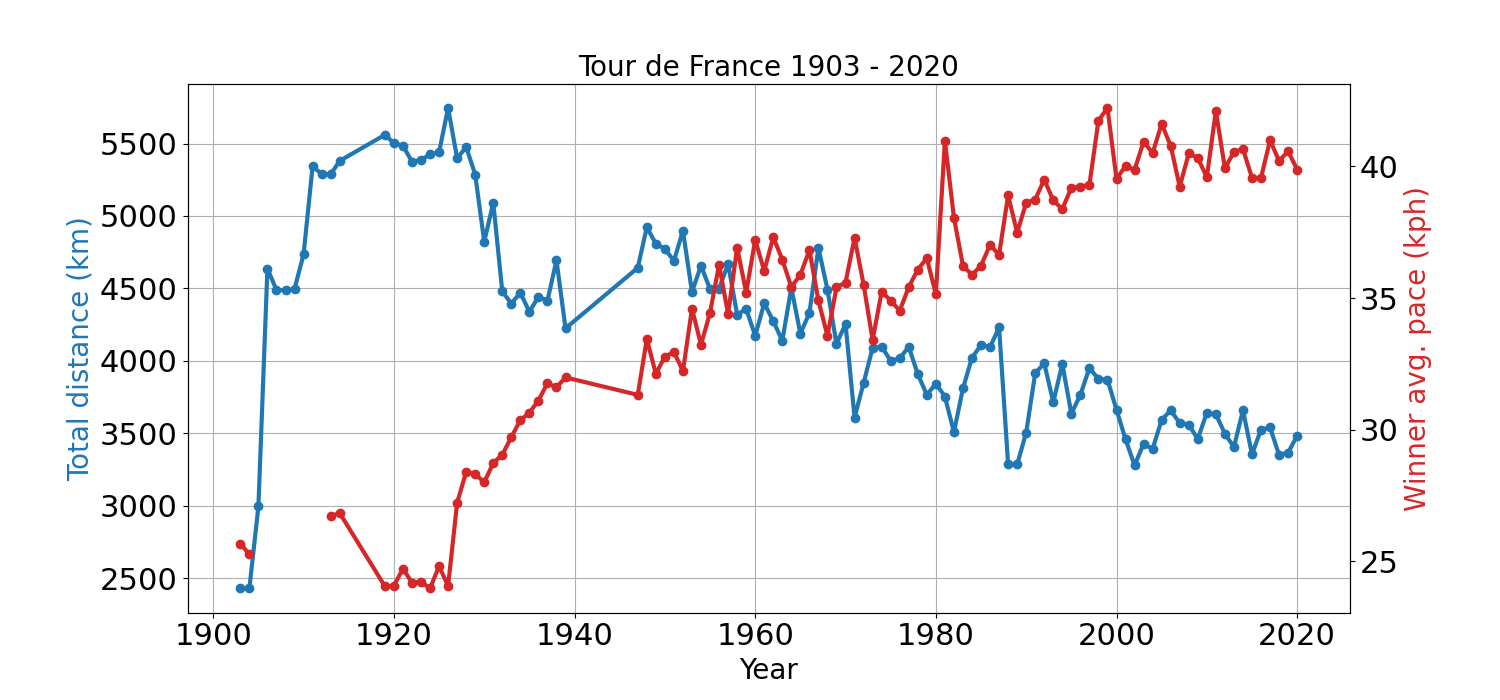
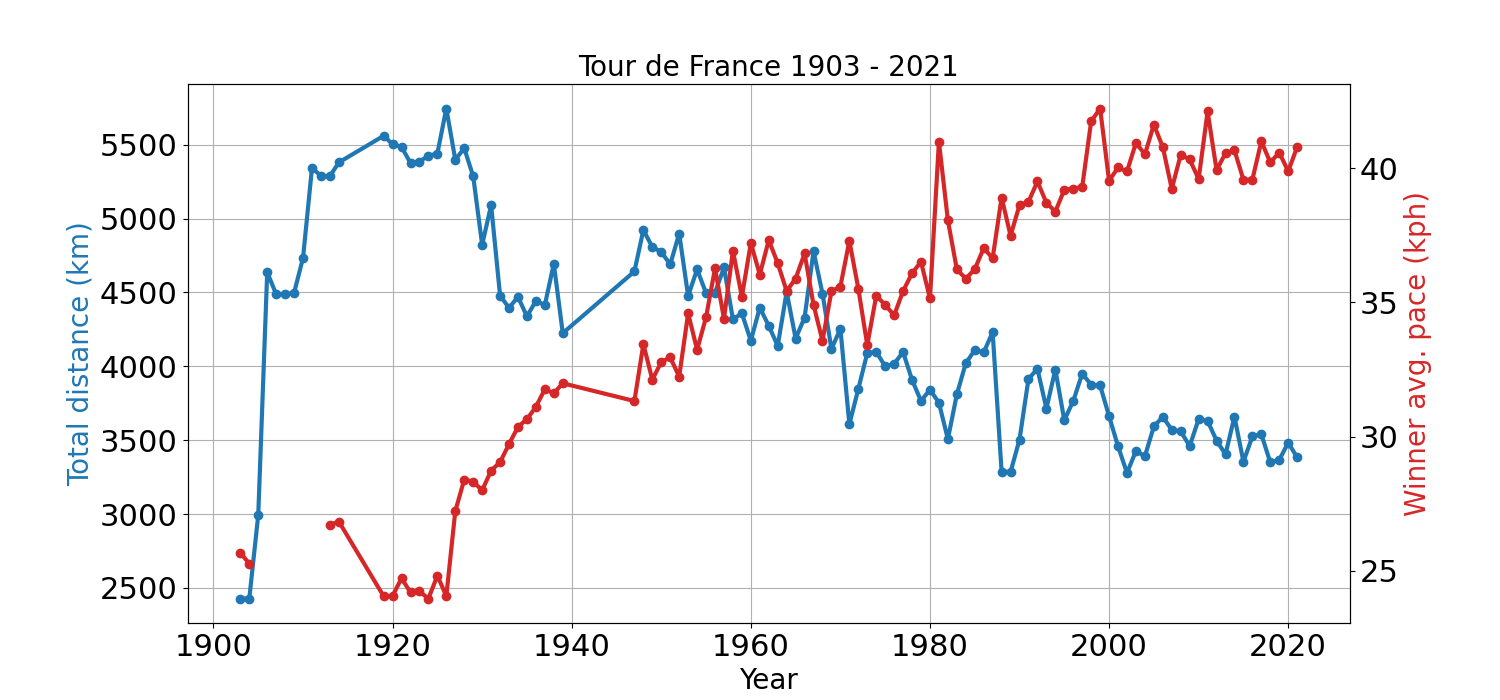
Update figure with 2021 data.

diff --git a/src/analysis.py b/src/analysis.py
@@ -26,5 +26,5 @@ ax2.plot(year, winnerpace, "-o", color="tab:red", lw=3)
 ax2.set_ylabel("Winner avg. pace (kph)", fontsize=20, color="tab:red")
 ax.set_xlabel("Year", fontsize=20)
 ax.grid("on")
-ax.set_title("Tour de France 1903 - 2020", fontsize=20)
+ax.set_title("Tour de France 1903 - 2021", fontsize=20)
 plt.savefig("output/distanceAndPace.png", dpi=100)
